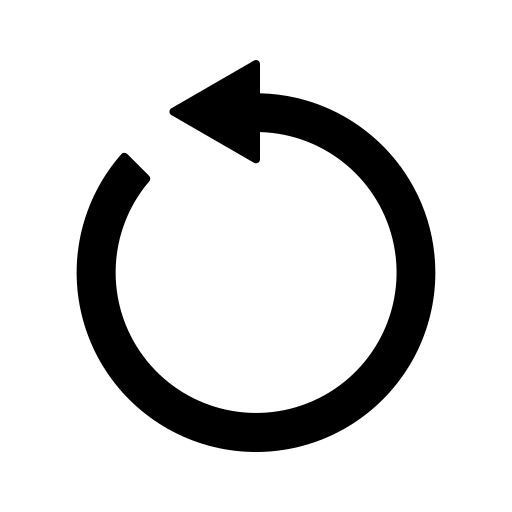
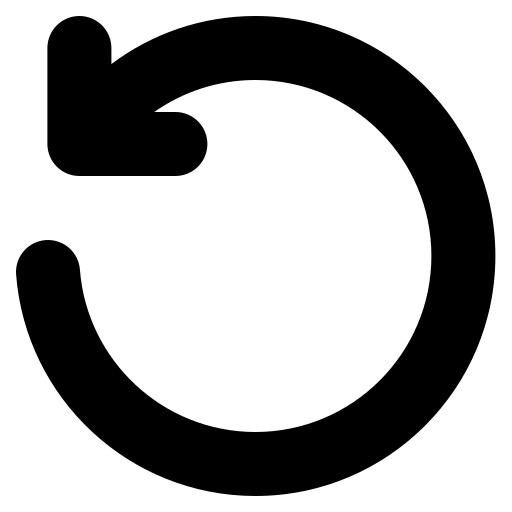
update code

diff --git a/assets/css/style.css b/assets/css/style.css
@@ -301,3 +301,18 @@ th {
   cursor: pointer;
   color: #888;
 }
+
+.footer {
+    border-top: 2px solid #e2e8f0;
+}
+
+.user_list_header {
+    border-bottom: 2px solid #e2e8f0;
+}
+
+.table-text {
+    font-weight: bold !important;
+    color: #333d42 !important;
+    font-size: .95rem !important;
+    line-height: 1rem !important;
+}

diff --git a/pages/user_management.php b/pages/user_management.php
@@ -73,6 +73,11 @@
     $corbeille_link[] = array('key' => 'page', 'value' => 'traitement_corbeille.php');
     $corbeille_link[] = array('key' => 'user_id', 'value' => null);
     $corbeille_user_index = get_index($corbeille_link, "user_id");    
+    // navigation link for profil
+    $link_profil = array();
+    $link_profil[] = array('key' => 'page', 'value' => "profile.php");
+    $link_profil[] = array('key' => 'user_id', 'value' => null);
+    $user_id_index = get_index($link_profil, "user_id");
 ?>
 
 <section class="div-container">
@@ -206,15 +211,28 @@
                                     <td class="text-center">
                                         <img src="<?= $user['u_image'] ?>" alt="User profile" class="rounded-circle" style="width: 35px; height: 35px;">
                                     </td>
-                                    <td><?= $user['u_last_name'] ?> <?= $user['u_first_name'] ?></td>
-                                    <td><?= $user['u_email'] ?></td>
-                                    <td><?= $user['u_inscription_date'] ?></td>
-                                    <td><?= statut_name($user['u_statut']) ?></td>
+                                    <td>
+                                        <?php $link_profil[$user_id_index]['value'] = $user['user_id']; ?>
+                                        <a class="profile-link" href="<?= navigation_link($link_profil) ?>">
+                                            <?= $user['u_last_name'] ?> <?= $user['u_first_name'] ?>
+                                        </a>
+                                    </td>
+                                    <td class="table-text"><?= $user['u_email'] ?></td>
+                                    <td class="table-text"><?= date_letter($user['u_inscription_date']) ?></td>
+                                    <td>
+                                        <?php if ($user['u_statut'] == 1) { ?>
+                                            <span class="badge text-bg-primary rounded-pill"><?= statut_name($user['u_statut']) ?></span>
+                                        <?php } else if ($user['u_statut'] == 0) { ?>
+                                            <span class="badge text-bg-success rounded-pill"><?= statut_name($user['u_statut']) ?></span>
+                                        <?php } else { ?>
+                                            <span class="badge text-bg-danger rounded-pill"><?= statut_name($user['u_statut']) ?></span>
+                                        <?php } ?>
+                                    </td>
                                     <td class="">
                                         <?php if ($user['u_statut'] == -1) { ?>
                                             <div class="d-flex align-items-center justify-content-evenly">
                                                 <?php $reset_user_link[$reset_user_index]['value'] = $user['user_id']; ?>
-                                                <a href="<?= custom_navigation_link($reset_user_link) ?>" class="btn btn-primary fw-bold rounded-1 text-white" style="text-decoration: none; padding: 2px 12px 2px 12px;">
+                                                <a href="<?= custom_navigation_link($reset_user_link) ?>" class="btn btn-success fw-bold rounded-1" style="text-decoration: none; padding: 2px 12px 2px 12px;">
                                                     Restore
                                                 </a>
                                             </div>

diff --git a/pages/edit_post.php b/pages/edit_post.php
@@ -75,7 +75,7 @@
                         </a>
                         <span class="dot mx-2">•</span>
                         <div>
-                            <span class="post-date"><?= $subject[0]['s_date'] ?></span>
+                            <span class="post-date"><?= duration($subject[0]['s_date']) ?></span>
                         </div>
                     </div>
                     <!-- post content -->
@@ -109,18 +109,11 @@
             </div>
             <!-- user list to check -->
             <div>
-                <div class="user_list_header border-bottom">
+                <div class="user_list_header">
                     <h5 class="fw-bold">Permission management</h5>
                 </div>
-                
-                <div class="mt-3 mb-3">
-                    <h5 class="fw-bold m-0">
-                        Users
-                        <span>(<?= count_request_result($user_list_sql) ?>)</span>
-                    </h5>
-                </div>
 
-                <div class="user_list_check" style="margin: 8px 0px 0px;">
+                <div class="user_list_check overflow-auto overflow-x-hidden" style="margin: 0px 0px 0px; max-height: 520px; overflow-y: auto; position: relative;">
                     <?php if(empty($user_list)) { ?>
                         <div class="text-center py-5">
                             <div class="d-flex flex-column align-items-center justify-content-center text-muted">
@@ -130,6 +123,12 @@
                             </div>
                         </div>
                     <?php } else { ?>
+                        <div class="mt-3 mb-3">
+                            <h5 class="fw-bold m-0">
+                                Users
+                                <span>(<?= count_request_result($user_list_sql) ?>)</span>
+                            </h5>
+                        </div>
                         <form action="traitement_edit_post.php" method="post">
                             <?php foreach($user_list as $user) { ?>
                                 <!-- checked permission if 1 not checked if 0 -->
@@ -167,7 +166,8 @@
                             <?php } ?>
                             <!-- send the subject id as hidden -->
                             <input type="hidden" name="subject_id" value="<?= $subject[0]['subject_id'] ?>">
-                            <div class="d-flex flex-column flex-sm-row gap-3 gap-sm-0 align-items-center justify-content-sm-between mt-3">
+                            <div class="footer d-flex flex-column flex-sm-row gap-3 gap-sm-0 align-items-center justify-content-sm-between mt-3"
+                            style="position: sticky; bottom: 0; background: white; z-index: 10; padding-top: 10px;">
                                 <div class="" style="">
                                     <?php $return_link[$return_page_index]['value'] = 'home.php' ?>
                                     <a href="<?= navigation_link($return_link) ?>" class="btn btn-light btn-sm rounded-pill fw-bold" type="button">Cancel</a>

diff --git a/pages/profile.php b/pages/profile.php
@@ -34,19 +34,21 @@
                         <small class="badge rounded-pill text-bg-primary"><?= statut_name($user['u_statut']) ?></small>
                     </div>
                 </div>
-                <div>
-                    <div class="div-existence d-none d-md-block">
-                        <button class="rounded-pill btn btn-primary gap-1 d-flex align-items-center" data-bs-toggle="modal" data-bs-target="#change-profil">
-                            <img src="../assets/images/write.png" alt="Edit" style="width: 18px; height: 18px;">
-                            <span class="fw-bold" style="">Edit profile</span>
-                        </button>
+                <?php if ($current_user['user_id'] == $user['user_id']) { ?>
+                    <div>
+                        <div class="div-existence d-none d-md-block">
+                            <button class="rounded-pill btn btn-primary gap-1 d-flex align-items-center" data-bs-toggle="modal" data-bs-target="#change-profil">
+                                <img src="../assets/images/write.png" alt="Edit" style="width: 18px; height: 18px;">
+                                <span class="fw-bold" style="">Edit profile</span>
+                            </button>
+                        </div>
+                        <div class="div-ecistence d-md-none d-block">
+                            <button class="rounded-circle btn btn-primary fw-bold d-flex align-items-center" style="padding: 8px;" data-bs-toggle="modal" data-bs-target="#change-profil">
+                                <img src="../assets/images/write.png" alt="Edit" style="width: 18px; height: 18px;">
+                            </button>
+                        </div>
                     </div>
-                    <div class="div-ecistence d-md-none d-block">
-                        <button class="rounded-circle btn btn-primary fw-bold d-flex align-items-center" style="padding: 8px;" data-bs-toggle="modal" data-bs-target="#change-profil">
-                            <img src="../assets/images/write.png" alt="Edit" style="width: 18px; height: 18px;">
-                        </button>
-                    </div>
-                </div>
+                <?php } ?>
             </div>
             <!-- privacy condition -->
             <?php if ($current_user['user_id'] == $user['user_id']) { ?>
@@ -151,7 +153,7 @@
                         <div class="col">
                             <div class="border border-dark-subtle rounded-3" style="padding: 5px 10px 5px 10px;">
                                 <p class="mb-1 opacity-75 fw-bold">Birthday</p>
-                                <input type="text" class="text-black bg-white" value="<?= $user['u_birth_date'] ?>" style="outline: none; border: none;" disabled>
+                                <input type="text" class="text-black bg-white" value="<?= date_letter($user['u_birth_date']) ?>" style="outline: none; border: none;" disabled>
                             </div>
                         </div>
                         <div class="col">

diff --git a/pages/comment.php b/pages/comment.php
@@ -80,7 +80,7 @@
                         </a>
                         <span class="dot mx-2">•</span>
                         <div>
-                            <span class="post-date"><?= $subject[0]['s_date'] ?></span>
+                            <span class="post-date"><?= duration($subject[0]['s_date']) ?></span>
                         </div>
                     </div>
                     <!-- post content -->
@@ -104,7 +104,7 @@
                         <p class="card-text"><?= $subject[0]['s_content'] ?></p>
                     </div>
                     <!-- comment number and button to comment -->
-                    <div class="post-comment mt-3 d-flex justify-content-between align-items-center">
+                    <div class="post-comment mt-3 mb-3 d-flex justify-content-between align-items-center">
                         <!-- link to comment  -->
                         <label class="d-flex align-items-center gap-2 rounded-pill comment-link" for="comment-textarea" style="cursor: pointer;">
                             <img src="../assets/images/comment.png" alt="" style="width: 20px; height: 20px">
@@ -113,7 +113,7 @@
                     </div>
                     <!-- post parameter for selecting who can see/not the post -->
                     <?php if ($subject[0]['user_id'] == $current_user['user_id']) { ?>
-                        <div class="mt-3 mb-3">
+                        <div class="mb-3">
                             <?php $link_post_edit[$post_edit_index]['value'] = $subject[0]['subject_id']; ?>
                             <a href="<?= navigation_link($link_post_edit) ?>" class="link-primary link-offset-2 link-underline-opacity-25 link-underline-opacity-100-hover" style="position: relative;z-index: 1000;">
                                 Post permission
@@ -188,7 +188,7 @@
                                                 <?= $item['u_last_name'] ?> <?= $item['u_first_name'] ?>
                                             </a>
                                             <span class="dot my-0">•</span>
-                                            <span class="post-date"><?= $item['c_date'] ?></span>
+                                            <span class="post-date"><?= duration($item['c_date']) ?></span>
                                         </p>
                                     </div>
                                 </div>

diff --git a/inc/function.php b/inc/function.php
@@ -177,19 +177,20 @@
 
 
     // post duration
-    function duration($datetime) {
+    function duration($datetime) 
+    {
         $timestamp = strtotime($datetime);
         $now = strtotime(get_current_date()['date_now']);
         $diff = $now - $timestamp;
 
         if ($diff < 60) {
-            return $diff . ' sec.' . " ago";
+            return "Just now";
         } elseif ($diff < 3600) {
             $minutes = floor($diff / 60);
-            return $minutes . ' min.' . " ago";
+            return $minutes . ' minute' . ($minutes > 1 ? 's' : '') . " ago";
         } elseif ($diff < 86400) {
             $hours = floor($diff / 3600);
-            return $hours . ' hr.' . " ago";
+            return $hours . ' hour' . ($hours > 1 ? 's' : '') . " ago";
         } elseif ($diff < 604800) {
             $days = floor($diff / 86400);
             return $days . ' day' . ($days > 1 ? 's' : '') . " ago";
@@ -203,6 +204,22 @@
             $years = floor($diff / 29030400);
             return $years . ' year' . ($years > 1 ? 's' : '') . " ago";
         }
+    }
+
+    // date to letter
+    function date_letter($date)
+    {
+        // months list to letter
+        $months = [
+            1 => 'Jan', 2 => 'Feb', 3 => 'Mar', 4 => 'Apr',
+            5 => 'May', 6 => 'Jun', 7 => 'Jul', 8 => 'Aug',
+            9 => 'Sep', 10 => 'Oct', 11 => 'Nov', 12 => 'Dec'
+        ];
+
+        $date = explode('-', $date);
+        $result = $months[intval($date[1])] . ' ' . intval($date[2]) . ', ' . $date[0];
+        
+        return $result;
     }
 
     // mdp to dot

diff --git a/pages/home.php b/pages/home.php
@@ -101,7 +101,7 @@
                                     </a>
                                     <span class="dot mx-2">•</span>
                                     <div>
-                                        <span class="post-date"><?= $item['s_date'] ?></span>
+                                        <span class="post-date"><?= duration($item['s_date']) ?></span>
                                     </div>
                                 </div>
                                 <!-- post content -->
